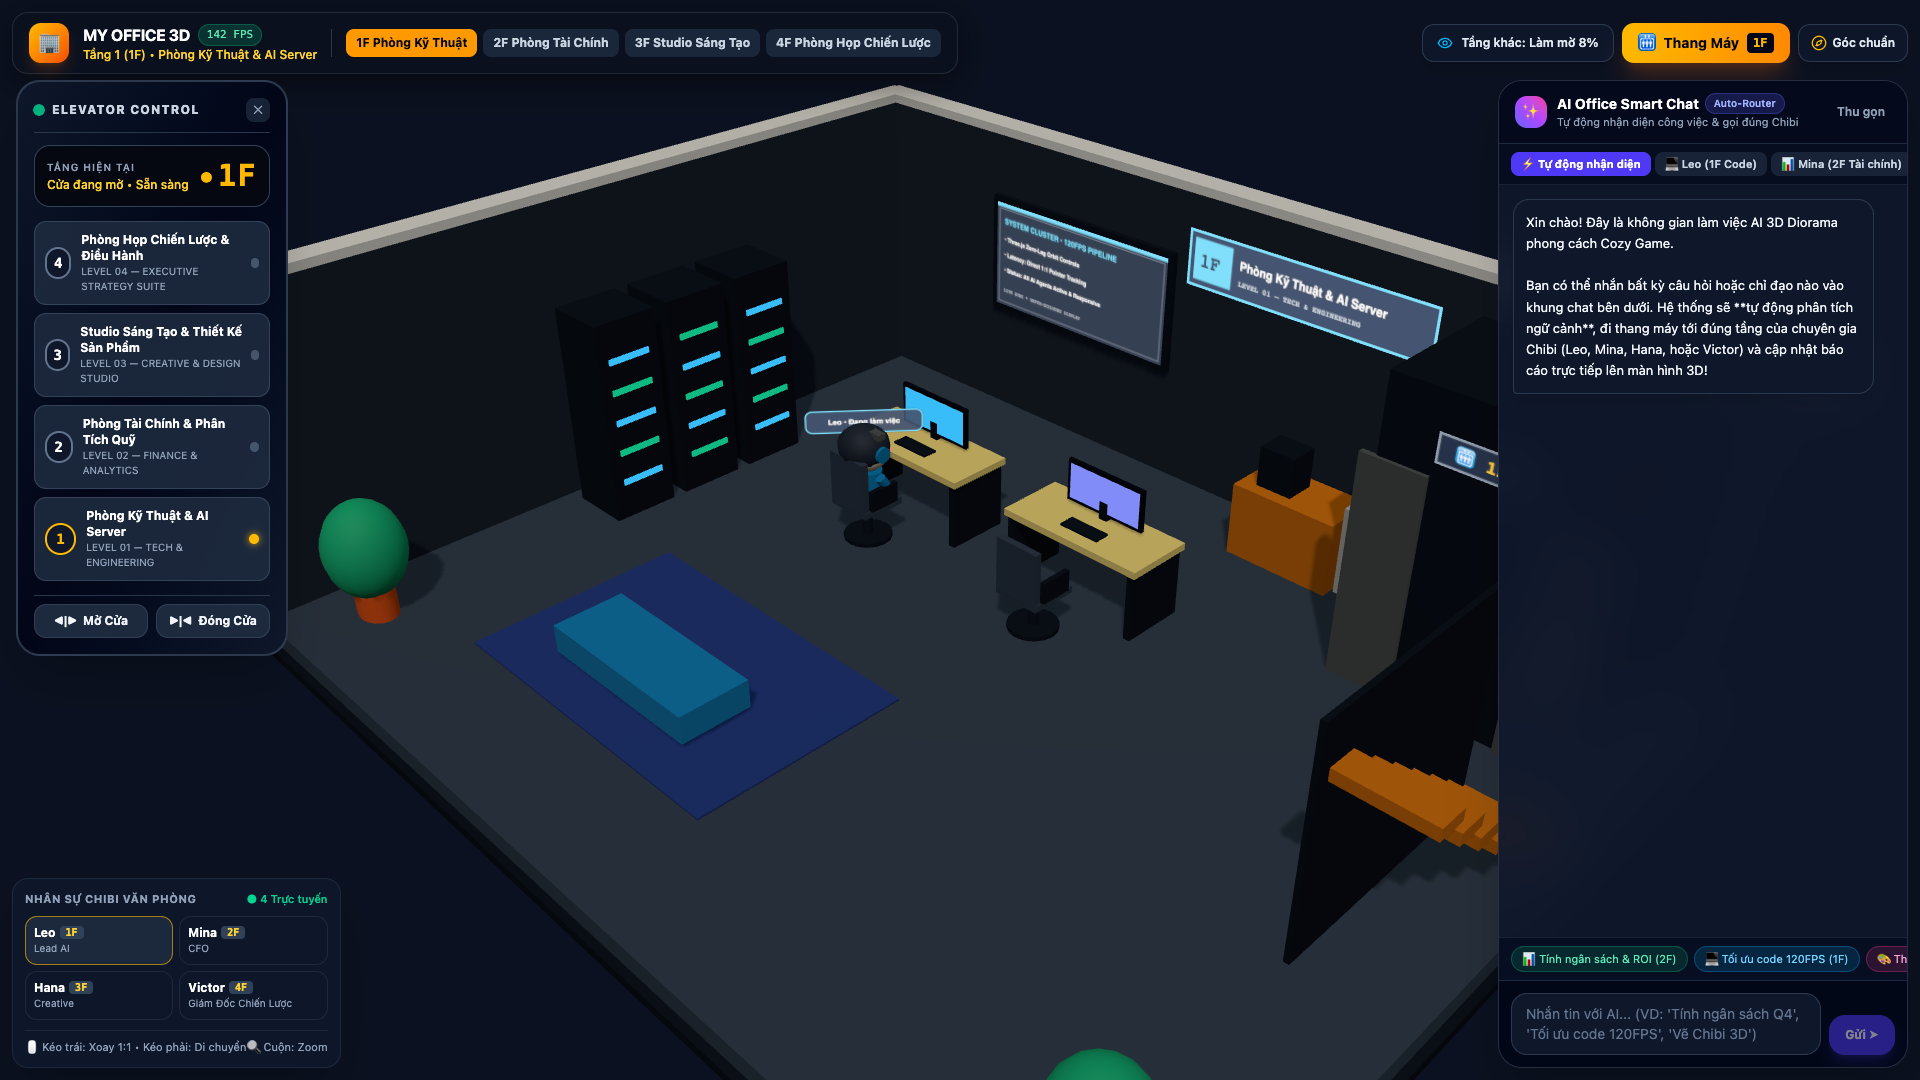
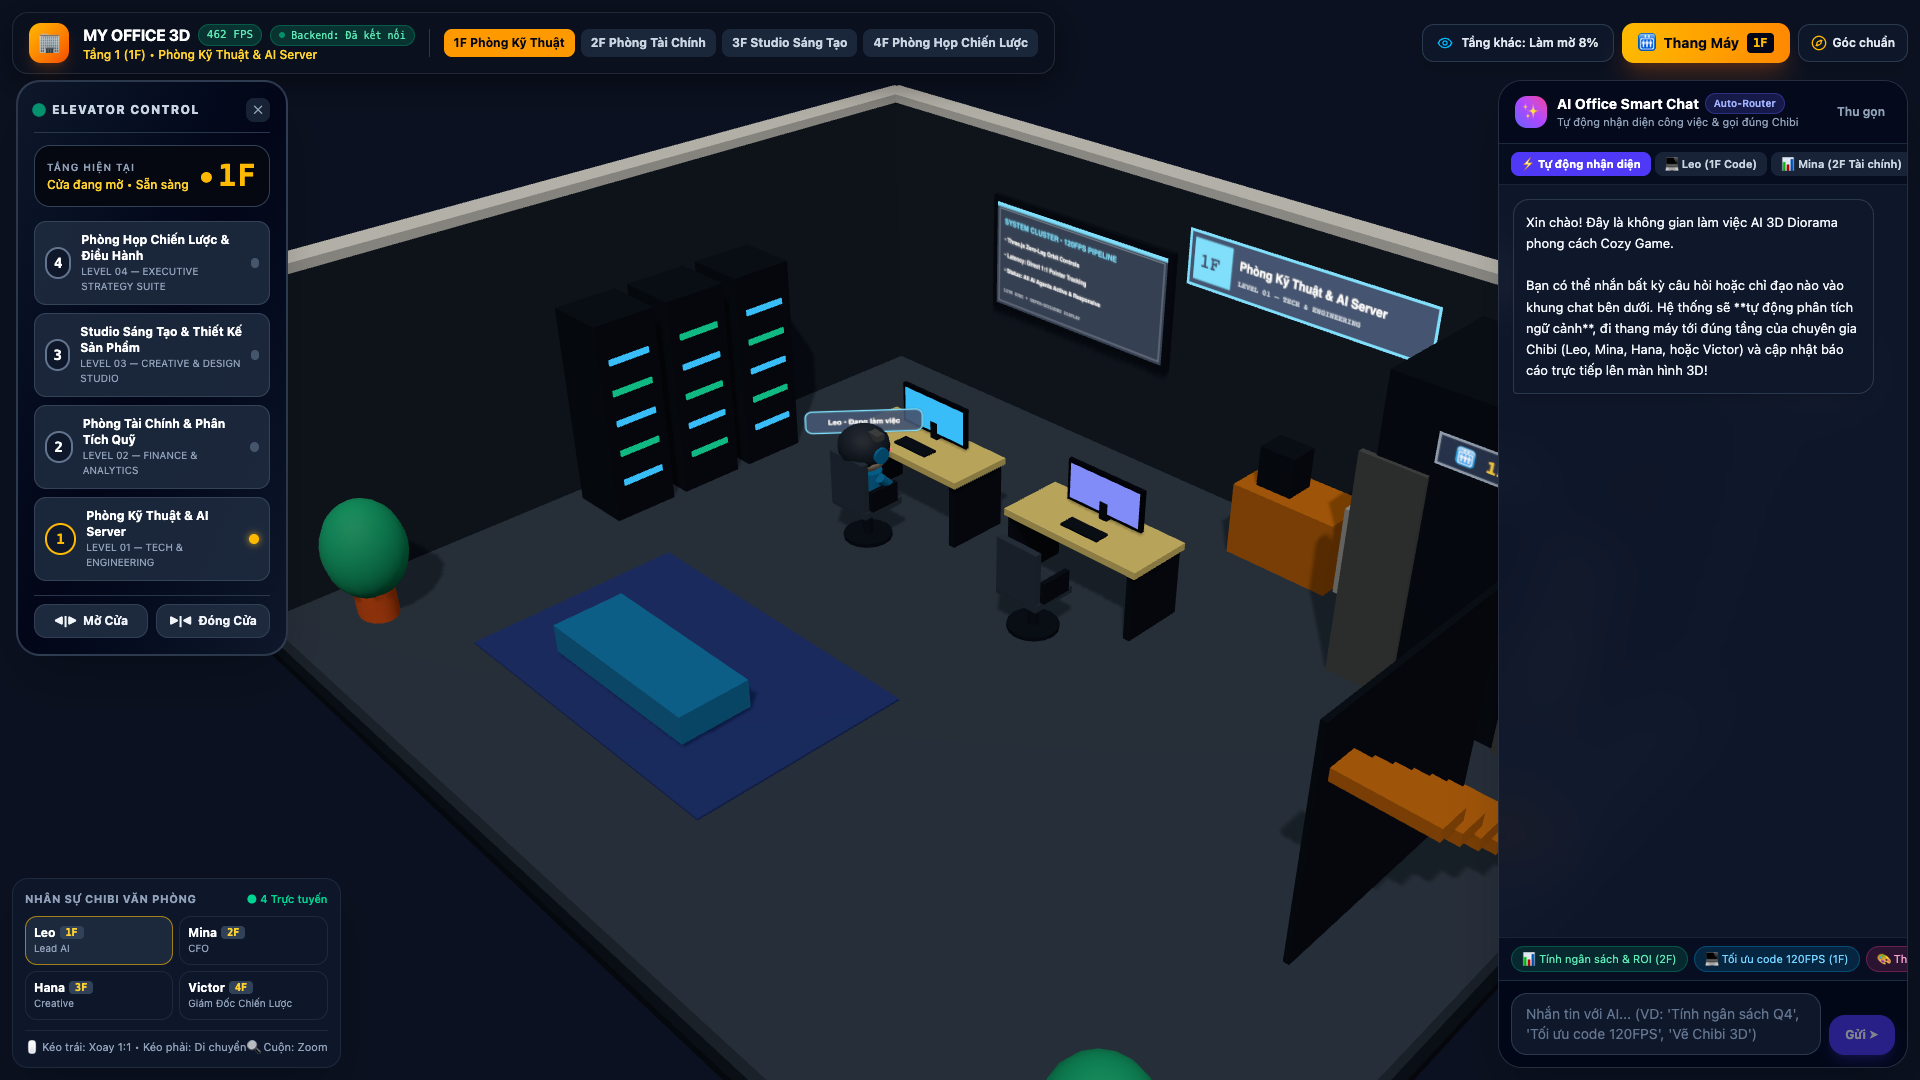
feat(backend-sync): connect diorama to authoritative fastapi backend with live status badge and task dispatching

Changed region(s): [[0.125, 0.0, 0.5625, 0.0611]]

diff --git a/frontend/components/office/MyOfficeDiorama.tsx b/frontend/components/office/MyOfficeDiorama.tsx
@@ -188,13 +188,15 @@ interface ChatItem {
 }
 
 interface MyOfficeDioramaProps {
-  onSubmitTask?: (agentId: string, promptText: string) => Promise<void>;
+  onSubmitTask?: (agentId: string, promptText: string) => Promise<any>;
   apiKey?: string;
+  backendStatus?: string;
 }
 
 export default function MyOfficeDiorama({
   onSubmitTask,
-  apiKey = ""
+  apiKey = "",
+  backendStatus = "connected"
 }: MyOfficeDioramaProps) {
   const containerRef = useRef<HTMLDivElement>(null);
 
@@ -1213,9 +1215,9 @@ export default function MyOfficeDiorama({
   }, [selectedChatTarget]);
 
   // Handle Chat Submit
-  const handleChatSubmit = async (e?: React.FormEvent, promptOverride?: string) => {
+  const handleChatSubmit = async (e?: React.FormEvent) => {
     if (e) e.preventDefault();
-    const text = (promptOverride || chatInputText).trim();
+    const text = chatInputText.trim();
     if (!text || isAiResponding) return;
     setChatInputText("");
 
@@ -1352,6 +1354,14 @@ export default function MyOfficeDiorama({
               <span className="text-[11px] font-mono px-2 py-0.5 rounded-full bg-emerald-500/20 text-emerald-300 border border-emerald-500/30">
                 {fpsValue} FPS
               </span>
+              <span className={`text-[10px] font-mono px-2 py-0.5 rounded-full flex items-center gap-1.5 ${
+                backendStatus === "connected"
+                  ? "bg-emerald-500/20 text-emerald-300 border border-emerald-500/30"
+                  : "bg-amber-500/20 text-amber-300 border border-amber-500/30"
+              }`}>
+                <span className={`w-1.5 h-1.5 rounded-full ${backendStatus === "connected" ? "bg-emerald-400 animate-pulse" : "bg-amber-400"}`}></span>
+                <span>{backendStatus === "connected" ? "Backend: Đã kết nối" : "Backend: Đang kết nối..."}</span>
+              </span>
             </div>
             <p className="text-xs text-amber-300 font-medium">
               Tầng {currentFloor} ({FLOORS[currentFloor]?.code}) • {FLOORS[currentFloor]?.name}
@@ -1369,11 +1379,10 @@ export default function MyOfficeDiorama({
                 <button
                   key={f}
                   onClick={() => useElevatorToFloor(f)}
-                  className={`px-2.5 py-1.5 rounded-lg text-xs font-bold transition-all ${
-                    isCurrent
+                  className={`px-2.5 py-1.5 rounded-lg text-xs font-bold transition-all ${isCurrent
                       ? "bg-amber-500 text-slate-950 shadow"
                       : "bg-slate-800/90 text-slate-300 hover:bg-slate-700"
-                  }`}
+                    }`}
                 >
                   {cfg.code} {cfg.name.split("&")[0].trim()}
                 </button>
@@ -1439,11 +1448,10 @@ export default function MyOfficeDiorama({
                     useElevatorToFloor(ag.floor);
                     setSelectedChatTarget(ag.id);
                   }}
-                  className={`flex items-center justify-between p-2 rounded-xl border text-left transition ${
-                    isHere
+                  className={`flex items-center justify-between p-2 rounded-xl border text-left transition ${isHere
                       ? "bg-slate-800/95 border-amber-400/60 text-white"
                       : "bg-slate-900/60 border-slate-800 text-slate-400 hover:bg-slate-800/60"
-                  }`}
+                    }`}
                 >
                   <div className="truncate pr-1">
                     <div className="text-xs font-bold text-white flex items-center gap-1">
@@ -1511,9 +1519,8 @@ export default function MyOfficeDiorama({
                     className="w-full flex items-center justify-between p-2.5 rounded-xl bg-slate-800/90 hover:bg-slate-700 border border-slate-600/60 transition group"
                   >
                     <div className="flex items-center gap-2.5">
-                      <span className={`w-8 h-8 rounded-full bg-slate-900 border-2 flex items-center justify-center font-mono font-extrabold text-sm ${
-                        isSelected ? "border-amber-400 text-amber-400" : "border-slate-500 text-white group-hover:border-amber-400"
-                      }`}>
+                      <span className={`w-8 h-8 rounded-full bg-slate-900 border-2 flex items-center justify-center font-mono font-extrabold text-sm ${isSelected ? "border-amber-400 text-amber-400" : "border-slate-500 text-white group-hover:border-amber-400"
+                        }`}>
                         {f}
                       </span>
                       <div className="text-left">
@@ -1577,41 +1584,36 @@ export default function MyOfficeDiorama({
           <div className="px-3 py-2 bg-slate-950/60 border-b border-slate-800/80 flex items-center gap-1 overflow-x-auto">
             <button
               onClick={() => setSelectedChatTarget("auto")}
-              className={`px-2.5 py-1 rounded-lg text-[11px] font-bold shrink-0 transition ${
-                selectedChatTarget === "auto" ? "bg-indigo-600 text-white shadow" : "bg-slate-800/80 text-slate-300 hover:bg-slate-700"
-              }`}
+              className={`px-2.5 py-1 rounded-lg text-[11px] font-bold shrink-0 transition ${selectedChatTarget === "auto" ? "bg-indigo-600 text-white shadow" : "bg-slate-800/80 text-slate-300 hover:bg-slate-700"
+                }`}
             >
               ⚡ Tự động nhận diện
             </button>
             <button
               onClick={() => setSelectedChatTarget("leo")}
-              className={`px-2.5 py-1 rounded-lg text-[11px] font-semibold shrink-0 transition ${
-                selectedChatTarget === "leo" ? "bg-indigo-600 text-white shadow" : "bg-slate-800/80 text-slate-300 hover:bg-slate-700"
-              }`}
+              className={`px-2.5 py-1 rounded-lg text-[11px] font-semibold shrink-0 transition ${selectedChatTarget === "leo" ? "bg-indigo-600 text-white shadow" : "bg-slate-800/80 text-slate-300 hover:bg-slate-700"
+                }`}
             >
               💻 Leo (1F Code)
             </button>
             <button
               onClick={() => setSelectedChatTarget("mina")}
-              className={`px-2.5 py-1 rounded-lg text-[11px] font-semibold shrink-0 transition ${
-                selectedChatTarget === "mina" ? "bg-indigo-600 text-white shadow" : "bg-slate-800/80 text-slate-300 hover:bg-slate-700"
-              }`}
+              className={`px-2.5 py-1 rounded-lg text-[11px] font-semibold shrink-0 transition ${selectedChatTarget === "mina" ? "bg-indigo-600 text-white shadow" : "bg-slate-800/80 text-slate-300 hover:bg-slate-700"
+                }`}
             >
               📊 Mina (2F Tài chính)
             </button>
             <button
               onClick={() => setSelectedChatTarget("hana")}
-              className={`px-2.5 py-1 rounded-lg text-[11px] font-semibold shrink-0 transition ${
-                selectedChatTarget === "hana" ? "bg-indigo-600 text-white shadow" : "bg-slate-800/80 text-slate-300 hover:bg-slate-700"
-              }`}
+              className={`px-2.5 py-1 rounded-lg text-[11px] font-semibold shrink-0 transition ${selectedChatTarget === "hana" ? "bg-indigo-600 text-white shadow" : "bg-slate-800/80 text-slate-300 hover:bg-slate-700"
+                }`}
             >
               🎨 Hana (3F Thiết kế)
             </button>
             <button
               onClick={() => setSelectedChatTarget("victor")}
-              className={`px-2.5 py-1 rounded-lg text-[11px] font-semibold shrink-0 transition ${
-                selectedChatTarget === "victor" ? "bg-indigo-600 text-white shadow" : "bg-slate-800/80 text-slate-300 hover:bg-slate-700"
-              }`}
+              className={`px-2.5 py-1 rounded-lg text-[11px] font-semibold shrink-0 transition ${selectedChatTarget === "victor" ? "bg-indigo-600 text-white shadow" : "bg-slate-800/80 text-slate-300 hover:bg-slate-700"
+                }`}
             >
               🚀 Victor (4F Họp)
             </button>
@@ -1674,7 +1676,7 @@ export default function MyOfficeDiorama({
           <div className="px-3 py-2 bg-slate-950/50 border-t border-slate-800/80 flex items-center gap-1.5 overflow-x-auto">
             <button
               onClick={() => {
-                handleChatSubmit(undefined, "Lập bảng dự toán ngân sách Q4 và tính ROI cho dự án AI");
+                setChatInputText("Lập bảng dự toán ngân sách Q4 và tính ROI cho dự án AI");
               }}
               className="shrink-0 text-[11px] bg-emerald-500/15 hover:bg-emerald-500/25 text-emerald-300 border border-emerald-500/30 px-2.5 py-1 rounded-full transition"
             >
@@ -1682,7 +1684,7 @@ export default function MyOfficeDiorama({
             </button>
             <button
               onClick={() => {
-                handleChatSubmit(undefined, "Tối ưu hiệu năng WebGL Three.js đạt 120FPS và sửa lỗi database");
+                setChatInputText("Tối ưu hiệu năng WebGL Three.js đạt 120FPS và sửa lỗi database");
               }}
               className="shrink-0 text-[11px] bg-sky-500/15 hover:bg-sky-500/25 text-sky-300 border border-sky-500/30 px-2.5 py-1 rounded-full transition"
             >
@@ -1690,7 +1692,7 @@ export default function MyOfficeDiorama({
             </button>
             <button
               onClick={() => {
-                handleChatSubmit(undefined, "Thiết kế bộ nhận diện thương hiệu và giao diện game Chibi ấm cúng");
+                setChatInputText("Thiết kế bộ nhận diện thương hiệu và giao diện game Chibi ấm cúng");
               }}
               className="shrink-0 text-[11px] bg-pink-500/15 hover:bg-pink-500/25 text-pink-300 border border-pink-500/30 px-2.5 py-1 rounded-full transition"
             >
@@ -1698,7 +1700,7 @@ export default function MyOfficeDiorama({
             </button>
             <button
               onClick={() => {
-                handleChatSubmit(undefined, "Chuẩn bị slide thuyết trình gọi vốn vòng Seed trên màn hình phòng họp");
+                setChatInputText("Chuẩn bị slide thuyết trình gọi vốn vòng Seed trên màn hình phòng họp");
               }}
               className="shrink-0 text-[11px] bg-amber-500/15 hover:bg-amber-500/25 text-amber-300 border border-amber-500/30 px-2.5 py-1 rounded-full transition"
             >
@@ -1745,4 +1747,3 @@ export default function MyOfficeDiorama({
     </div>
   );
 }
-

diff --git a/frontend/app/page.tsx b/frontend/app/page.tsx
@@ -13,10 +13,18 @@ import InteractiveMissionTerminal from "@/components/hud/InteractiveMissionTermi
 import { useWorldStore } from "@/store/worldStore";
 import { PendingAction, Task, EventLog } from "@/types";
 import { getAgents } from "@/lib/api/agents";
+import { createTask } from "@/lib/api/tasks";
 import { syncManager } from "@/lib/websocket/syncManager";
 import { stateBridge } from "@/lib/stateBridge";
 
 const API_BASE = process.env.NEXT_PUBLIC_API_URL || process.env.NEXT_PUBLIC_API_BASE_URL || "http://localhost:8000";
+
+const AGENT_MAPPING: Record<string, string> = {
+  leo: "agent-eng-lead",
+  mina: "agent-fin-controller",
+  hana: "agent-mkt-growth",
+  victor: "agent-exec-ceo",
+};
 
 export default function CorporateHQ3DWorldPage() {
   const syncAgentsFromBackend = useWorldStore((s) => s.syncAgentsFromBackend);
@@ -127,29 +135,24 @@ export default function CorporateHQ3DWorldPage() {
     };
   }, [applySnapshot, applyEvent, setLiveConnected, setBackendStatus]);
 
-  // 3. User Task Submission via Authoritative REST API
+  // 3. User Task Submission via Authoritative REST API with apiClient Auth
   const handleSubmitTask = async (agentId: string, promptText: string) => {
     setIsLoadingTask(true);
     setEvents([]);
 
+    const backendAgentId = AGENT_MAPPING[agentId] || agentId;
+
     try {
-      const res = await fetch(`${API_BASE}/api/v1/tasks`, {
-        method: "POST",
-        headers: { "Content-Type": "application/json" },
-        body: JSON.stringify({
-          title: promptText.slice(0, 60),
-          description: promptText,
-          assigned_agent_id: agentId,
-          priority: "high",
-        }),
+      const created = await createTask({
+        title: promptText.slice(0, 60),
+        description: promptText,
+        assigned_agent_id: backendAgentId,
+        priority: "high",
       });
 
-      if (res.ok) {
-        const created: any = await res.json();
-        setActiveTask(created);
-      } else {
-        setIsLoadingTask(false);
-      }
+      setActiveTask(created as any);
+      setIsLoadingTask(false);
+      return created;
     } catch (e) {
       console.warn("Task dispatch note:", e);
       setIsLoadingTask(false);
@@ -183,7 +186,10 @@ export default function CorporateHQ3DWorldPage() {
   return (
     <main className="relative w-screen h-screen overflow-hidden bg-[#070b14]">
       {/* 3D Diorama Multi-Floor HQ with Instant 1:1 Camera, Elevator & Smart Auto-Router Chat */}
-      <MyOfficeDiorama onSubmitTask={handleSubmitTask} />
+      <MyOfficeDiorama
+        onSubmitTask={handleSubmitTask}
+        backendStatus={backendConnection}
+      />
 
       {/* Realtime 3D Mission Terminal with Anthropic Skills, Chat & Artifacts */}
       <InteractiveMissionTerminal />
